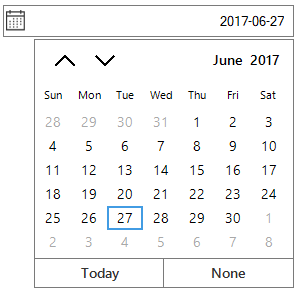
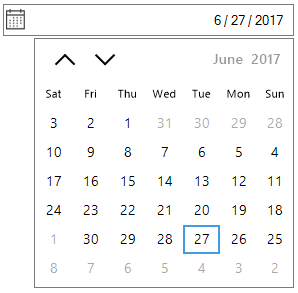
WF-41005 - Publish documentation for SfCalendar control

diff --git a/WindowsForms/SfDateTimeEdit/validation.md b/WindowsForms/SfDateTimeEdit/validation.md
@@ -9,15 +9,15 @@ documentation: ug
 
 # DateTime Validation
 
-`SfDateTimeEdit` control validate the DateTime Value on pressing the Enter key, control lost its focus or pick the date from the DropDown Calendar. `ValidationOption` that helps to decides how the value will be changed when validation failed. If the validation failed, Value reset with previous date time `Value` or `MinDateTime` or `MaxDateTime`. If the validating event is not handled then the validation will be done based on the `ValidationOption` of SfDateTimeEdit.
+`SfDateTimeEdit` control validate the DateTime Value on pressing the Enter key, control lost its focus or pick the date from the DropDown Calendar. `ValidationResetOption` that helps to decides how the value will be changed when validation failed. If the validation failed, Value reset with previous date time `Value` or `MinValue` or `MaxValue`. If the validating event is not handled then the validation will be done based on the `ValidationResetOption` of SfDateTimeEdit.
 
 Validation results based on the input provided to `Value` or `DateTimeText` of SfDateTimeEdit. If the provided input is invalid datetime format or value met minimum or maximum value constraint, validation results will be fail. 
 
 * **Reset** - The control maintain the previous Value before validating. If the validation failed then the value will be reset with that previous Value.
 
-* **MinDateTime** - On Validation failed the value will be reset with `MinDateTime`.
+* **MinValue** - On Validation failed the value will be reset with `MinValue`.
 
-* **MaxDateTime** - On Validation failed the value will be reset with `MaxDateTime`.
+* **MaxValue** - On Validation failed the value will be reset with `MaxValue`.
 
 {% tabs %}
 
@@ -31,8 +31,8 @@ dateTimeEdit.Value = new DateTime(2018, 2, 1);
 
 dateTimeEdit.DateTimeEditingMode = DateTimeEditingMode.Default;
 
-// On Validation failed the value will be reset with MinDateTime.
-dateTimeEdit.ValidationOption = ValidationOption.MinDateTime;
+// On Validation failed the value will be reset with MinValue.
+dateTimeEdit.ValidationResetOption = ValidationResetOption.MinValue;
 
 {% endhighlight  %}
 
@@ -46,9 +46,9 @@ dateTimeEdit.Value = New DateTime(2018, 2, 1)
 
 dateTimeEdit.DateTimeEditingMode = DateTimeEditingMode.Default
 
-' On Validation failed the value will be reset with MinDateTime.
+' On Validation failed the value will be reset with MinValue.
 
-dateTimeEdit.ValidationOption = ValidationOption.MinDateTime
+dateTimeEdit.ValidationResetOption = ValidationResetOption.MinValue
 
 {% endhighlight  %}
 

diff --git a/WindowsForms/SfCalendar/appearance.md b/WindowsForms/SfCalendar/appearance.md
@@ -271,7 +271,7 @@ Me.sfCalendar.Style.Cell.CellFont = New System.Drawing.Font("Calibri", 11.25!, S
 
 ## Settings the Days   
 
-It is possible to hide the days of the next month and the previous month in the calendar, to enhance the appearance of the Calendar. This is done by disabling the `TrailingCellVisible` property.
+It is possible to hide the days of the next month and the previous month in the calendar, to enhance the appearance of the Calendar. This is done by disabling the `TrailingDatesVisible` property.
 
 For setting these properties, use the following code.
 
@@ -281,7 +281,7 @@ For setting these properties, use the following code.
 
 // Setting the Next and Previous Months Dates invisible
 
-this.SfCalendar1.TrailingCellVisible = false;
+this.SfCalendar1.TrailingDatesVisible = false;
 
 {% endhighlight  %}
 
@@ -289,7 +289,7 @@ this.SfCalendar1.TrailingCellVisible = false;
 
 ' Setting the Next and Previous Months Dates invisible
 
-this.SfCalendar1.TrailingCellVisible = False
+this.SfCalendar1.TrailingDatesVisible = False
 
 {% endhighlight  %}
 

diff --git a/WindowsForms/SfDateTimeEdit/navigation.md b/WindowsForms/SfDateTimeEdit/navigation.md
@@ -13,7 +13,7 @@ documentation: ug
 
 ## Navigate to DropDown Calendar
 
-DropDown Calendar control to pick the date `Value` for `SfDateTimeEdit` can be opened by `ALT + DOWN` arrow combinations. DropDown calendar can be closed by `ALT + UP` and `ALT + DOWN` key combinations if dropdown calendar is already opened. State of DropDown calendar can be get from `IsDropDowOpen` of SfDateTimeEdit.
+DropDown Calendar control to pick the date `Value` for `SfDateTimeEdit` can be opened by `ALT + DOWN` arrow combinations. DropDown calendar can be closed by `ALT + UP` and `ALT + DOWN` key combinations if dropdown calendar is already opened. State of DropDown calendar can be get from `ShowDropDown` of SfDateTimeEdit.
 
 DropDown Calendar provides key board support to change the selected date by keyboard. Date from different month, year or decade can be selected by navigate to next view on press `CTRL + UP` and navigate back to the old view on `CTRL + DOWN` key combinations. Selection in views can be changed by Right and Left arrow keys.
 

diff --git a/WindowsForms/SfDateTimeEdit/righttoleft.md b/WindowsForms/SfDateTimeEdit/righttoleft.md
@@ -15,29 +15,21 @@ SfDateTimeEdit control elements can be aligned in right-to-left layout. The `Rig
 
 {% highlight C# %}
 
-//Disable the Right to Left
+//Enable the Right to Left
 
-this.dateTimeEdit.RightToLeftLayout = false;
 this.dateTimeEdit.RightToLeft = RightToLeft.Yes;
 
-//Enable the Right to Left 
-
-this.dateTimeEdit.RightToLeftLayout = true;
-this.dateTimeEdit.RightToLeft = RightToLeft.Yes;
+this.dateTimeEdit.MonthCalendar.RightToLeftLayout = true;
 
 {% endhighlight  %}
 
 {% highlight VB %}
 
-'Disable the Right to Left
+'Enable the Right to Left
 
-Me.dateTimeEdit.RightToLeftLayout = false
 Me.dateTimeEdit.RightToLeft = RightToLeft.Yes
 
-'Enable the Right to Left 
-
-Me.dateTimeEdit.RightToLeftLayout = true
-Me.dateTimeEdit.RightToLeft = RightToLeft.Yes
+Me.dateTimeEdit.MonthCalendar.RightToLeftLayout = true
 
 {% endhighlight  %}
 
